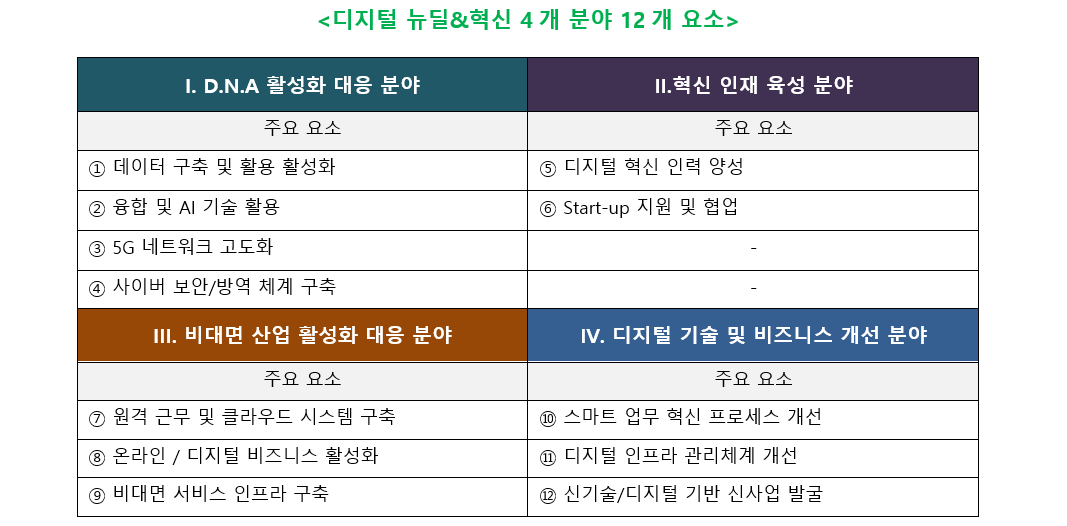
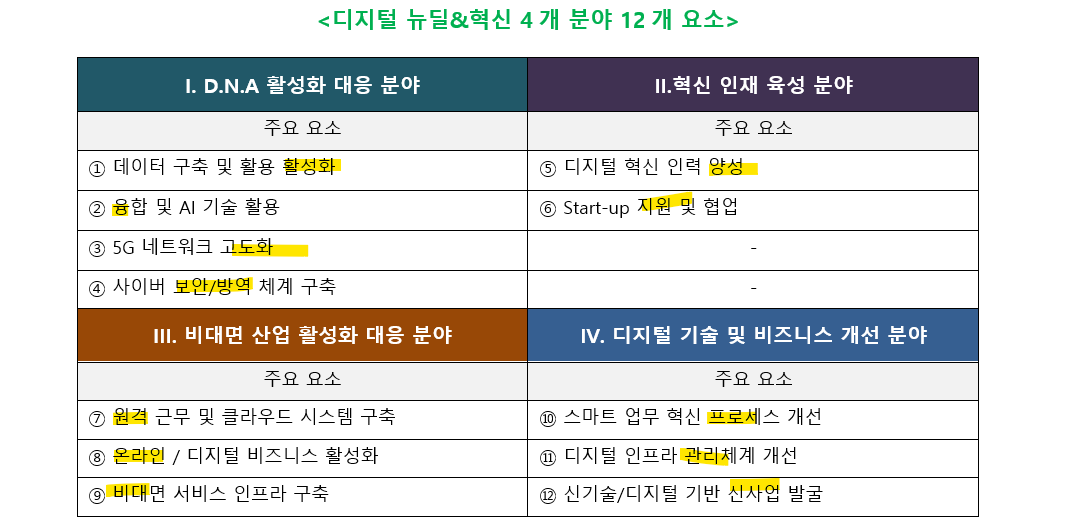
202104301719

diff --git a/note_ds.js b/note_ds.js
@@ -949,6 +949,11 @@ var answer = answer.concat(
   
 // 디지털 뉴딜
 '# Digital New Deal <br/>\
+# D인비디 <br/>\
+- D : 활고융사 <br/>\
+- 인 : 양지 <br/>\
+- 비 : 원온비 <br/>\
+- 디 : 프관신 <br/><br/>\
 <img src = "./img/DigitalNewDeal.png" style = "max-width:100%; height:auto;">\
 ',
   
@@ -970,7 +975,11 @@ var answer = answer.concat(
 ',
   
 // 그린 뉴딜
-'<img src = "./img/GreenNewDeal.png" style = "max-width:100%; height:auto;">\
+'# 주요내용 <br/>\
+- 도시공간생활 <br/>\
+- 산업 <br/>\
+- 에너지 <br/><br/>\
+<img src = "./img/GreenNewDeal.png" style = "max-width:100%; height:auto;">\
 ',
   
 // SoC 디지털화
